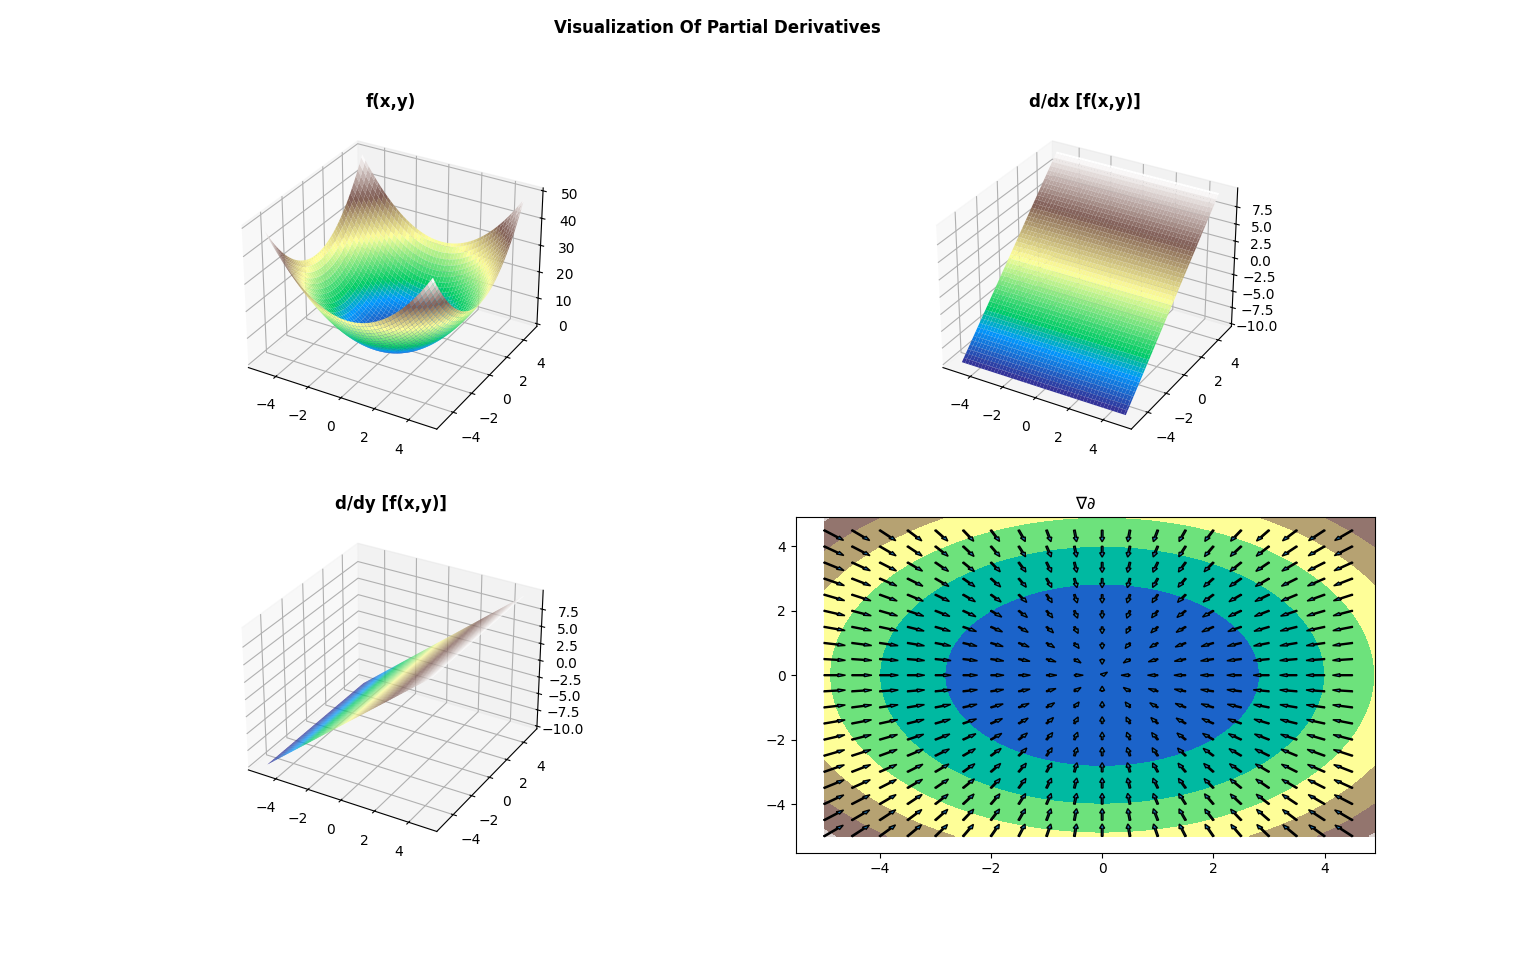
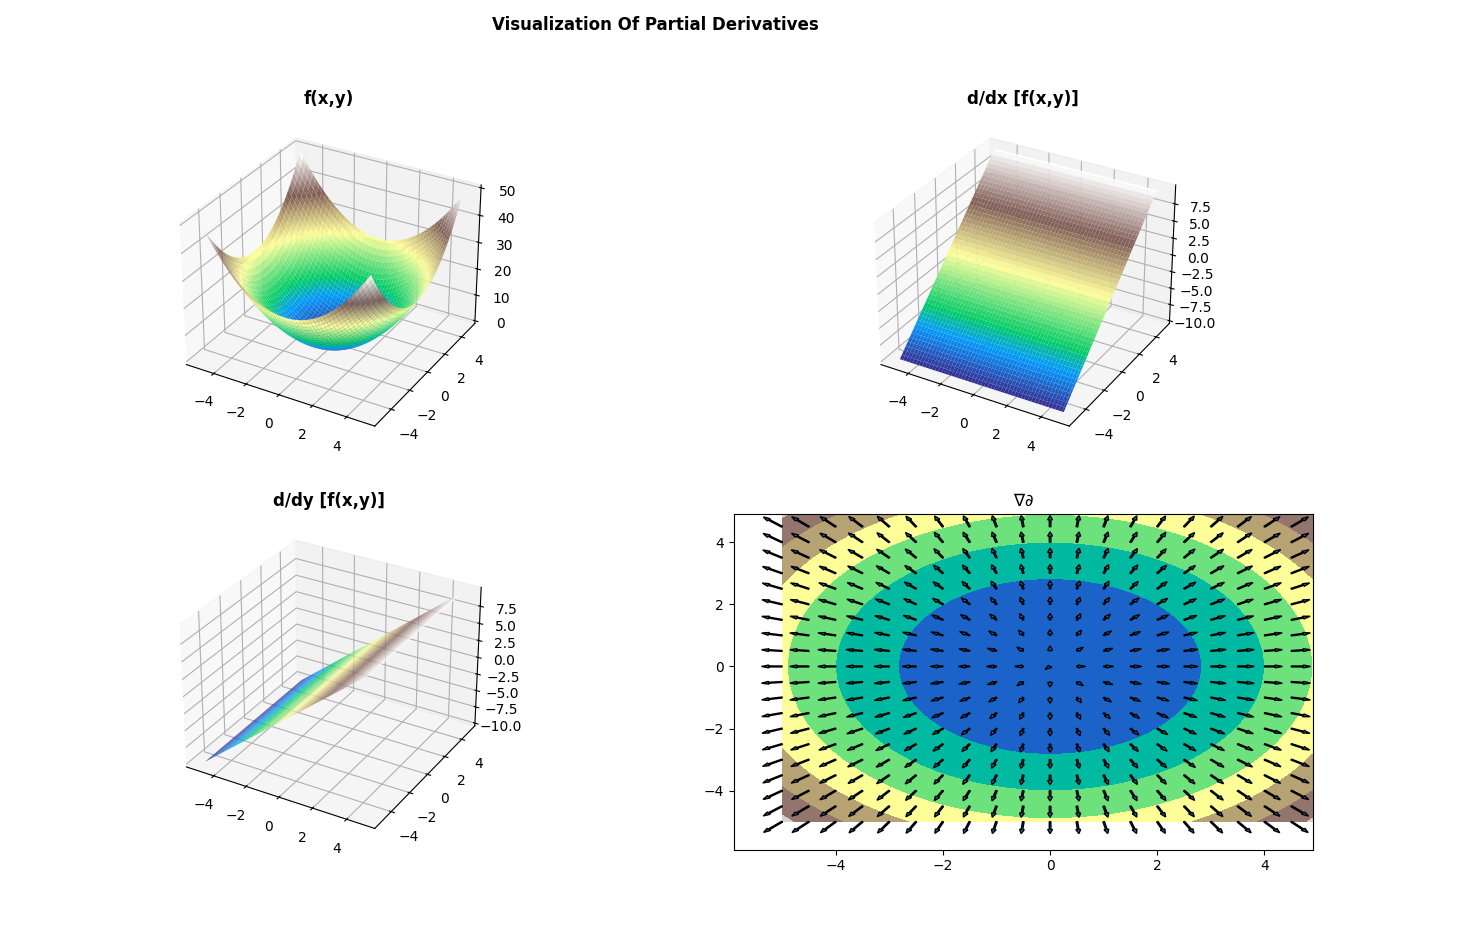
Fixed gradient vector visualization.

diff --git a/partial_derivative.py b/partial_derivative.py
@@ -60,8 +60,8 @@ for x in range(df.size):
             ax4.arrow(
                 df[x],
                 df[y],
-                0.05 * (df[x] - rf_dx[x][y]),
-                0.05 * (df[y] - rf_dy[x][y]),
+                0.05 * (rf_dx[x][y] - df[x]),
+                0.05 * (rf_dy[x][y] - df[y]),
                 width=0.03)
 
 matplotlib.pyplot.show()
